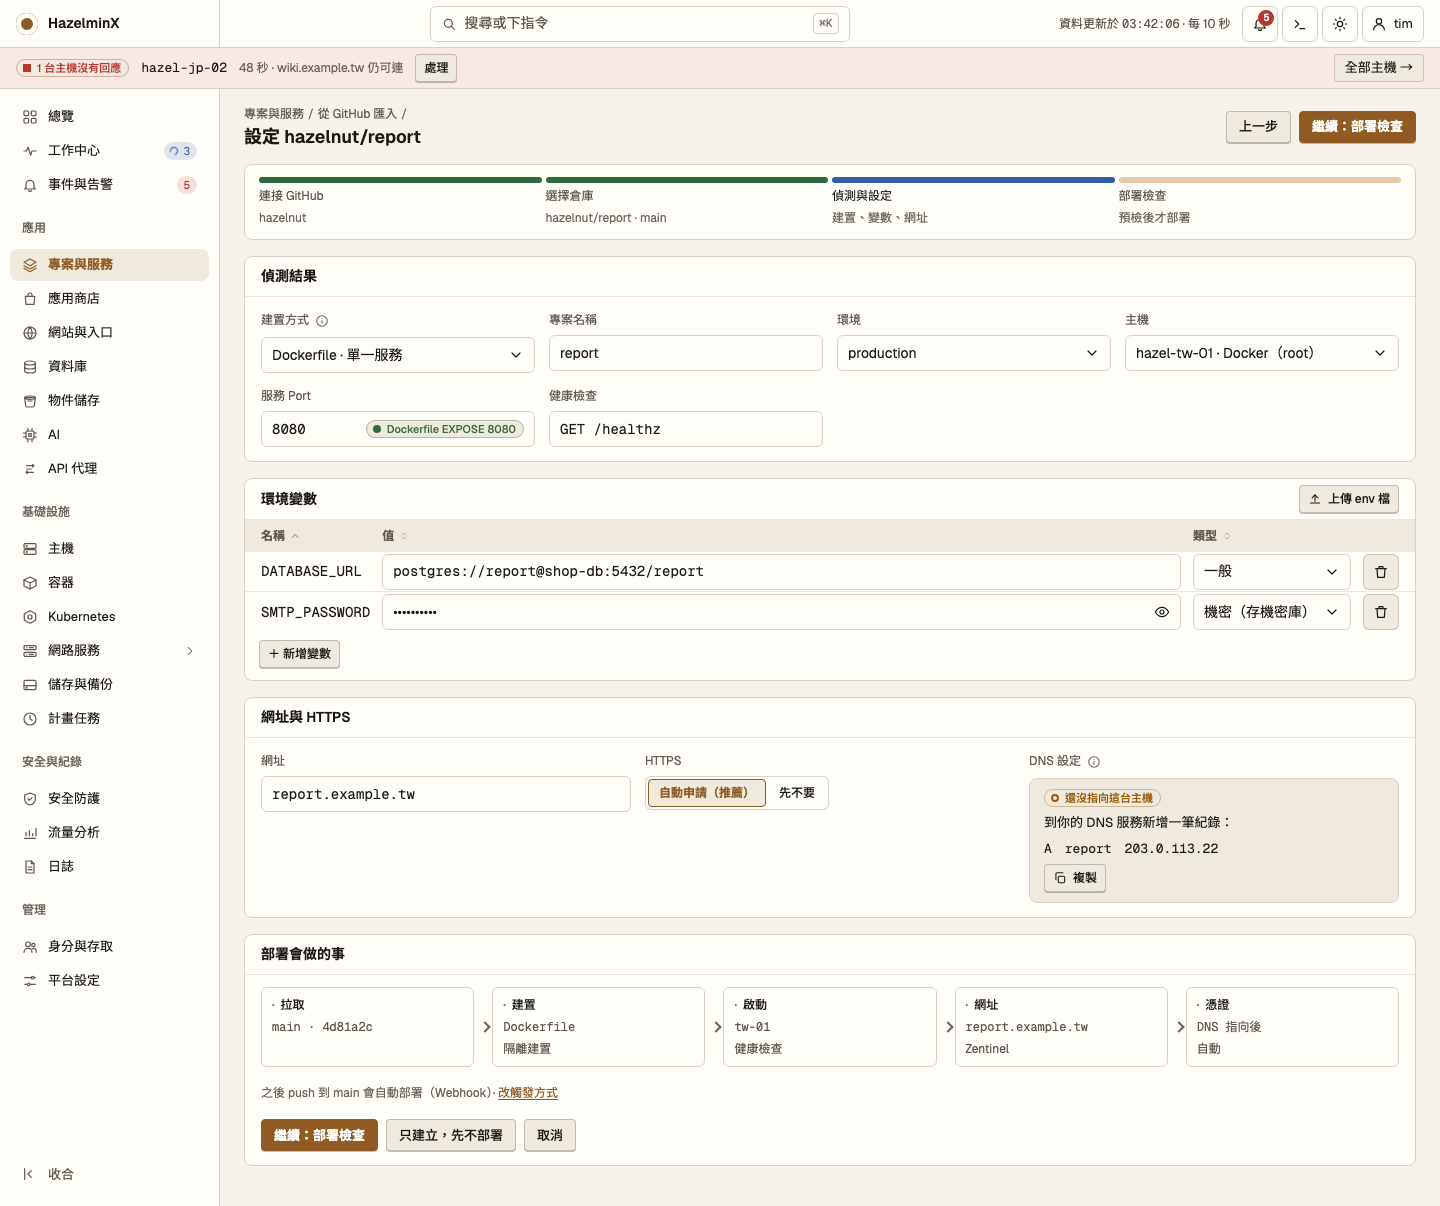
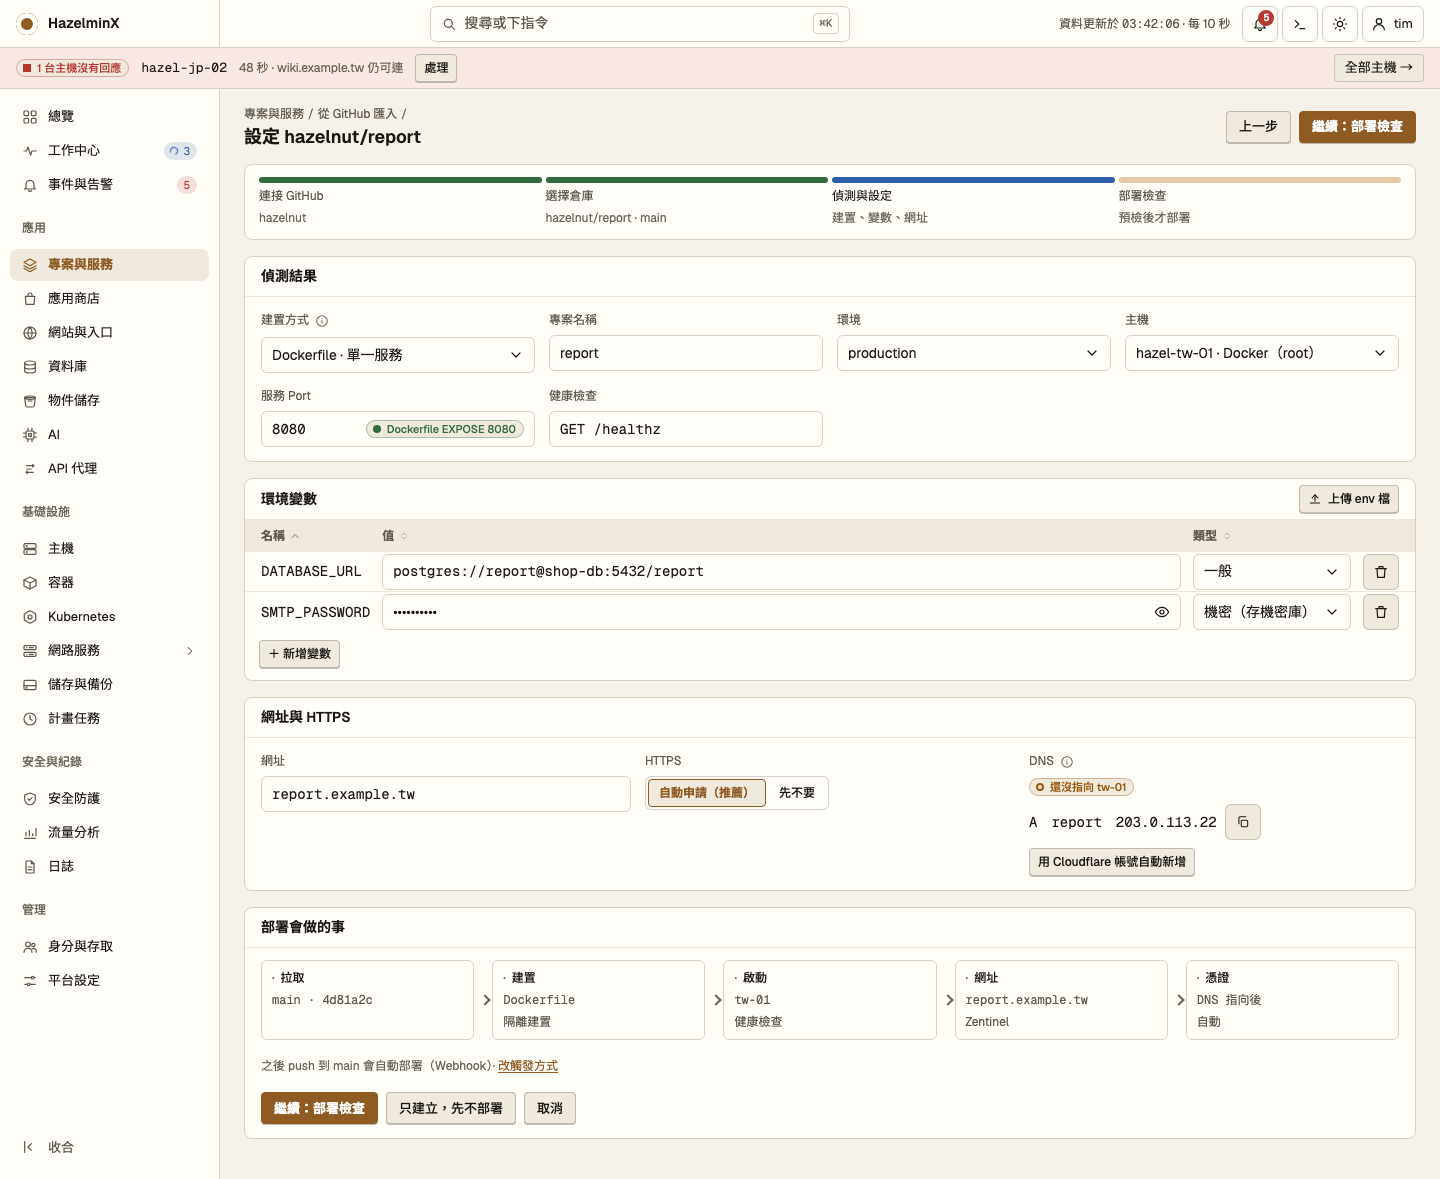
design: compact DNS field with automatic record creation on the import board

diff --git a/design/screens/ImportConfigure.dc.html b/design/screens/ImportConfigure.dc.html
@@ -496,7 +496,7 @@ body{margin:0}
     <button type="button" class="nv coll" aria-label="收合側欄"><svg viewBox="0 0 24 24" width="16" height="16" fill="none" stroke="currentColor" stroke-width="1.8" stroke-linecap="round" stroke-linejoin="round" aria-hidden="true"><path d="m14 7-5 5 5 5"/><path d="M4 4v16"/></svg><span>收合</span></button>
   </nav><main class="main">
     <div class="phead"><div class="name"><nav class="pcrumb" aria-label="位置"><a href="Projects.dc.html">專案與服務</a><span class="sep" aria-hidden="true">/</span><a href="GitHubSource.dc.html">從 GitHub 匯入</a><span class="sep" aria-hidden="true">/</span></nav><h1>設定 hazelnut/report</h1></div>
-      <div class="wrap" style="margin-left:auto"><a class="btn" href="GitHubSource.dc.html">上一步</a><a class="btn pri" href="ComposeCompat.dc.html">繼續：部署檢查</a></div></div><div class="panel" style="padding:12px 14px"><div class="steps"><div class="step done"><b aria-hidden="true"></b><span>連接 GitHub</span><span class="note">hazelnut</span></div><div class="step done"><b aria-hidden="true"></b><span>選擇倉庫</span><span class="note">hazelnut/report · main</span></div><div class="step cur"><b aria-hidden="true"></b><span>偵測與設定</span><span class="note">建置、變數、網址</span></div><div class="step todo"><b aria-hidden="true"></b><span>部署檢查</span><span class="note">預檢後才部署</span></div></div></div><div class="cg"><section class="panel"><div class="ph"><h2>偵測結果</h2></div><div style="padding:14px 16px;display:grid;grid-template-columns:repeat(auto-fit,minmax(min(240px,100%),1fr));gap:14px"><div class="field"><label>建置方式 <span class="hint" tabindex="0" role="img" aria-label="偵測到 Dockerfile，沒有 compose 檔" data-tip="偵測到 Dockerfile，沒有 compose 檔"><svg viewBox="0 0 24 24" width="14" height="14" fill="none" stroke="currentColor" stroke-width="1.8" stroke-linecap="round" stroke-linejoin="round" aria-hidden="true"><circle cx="12" cy="12" r="9"/><path d="M12 11v5M12 8h.01"/></svg></span></label><div class="inp"><span style="flex:1;min-width:0;overflow-wrap:anywhere">Dockerfile · 單一服務</span><svg viewBox="0 0 24 24" width="16" height="16" fill="none" stroke="currentColor" stroke-width="1.8" stroke-linecap="round" stroke-linejoin="round" aria-hidden="true"><path d="m6 9 6 6 6-6"/></svg></div></div><div class="field"><label>專案名稱</label><div class="inp"><span class="" style="flex:1;min-width:0;overflow-wrap:anywhere">report</span></div></div><div class="field"><label>環境</label><div class="inp"><span style="flex:1;min-width:0;overflow-wrap:anywhere">production</span><svg viewBox="0 0 24 24" width="16" height="16" fill="none" stroke="currentColor" stroke-width="1.8" stroke-linecap="round" stroke-linejoin="round" aria-hidden="true"><path d="m6 9 6 6 6-6"/></svg></div></div><div class="field"><label>主機</label><div class="inp"><span style="flex:1;min-width:0;overflow-wrap:anywhere">hazel-tw-01 · Docker（root）</span><svg viewBox="0 0 24 24" width="16" height="16" fill="none" stroke="currentColor" stroke-width="1.8" stroke-linecap="round" stroke-linejoin="round" aria-hidden="true"><path d="m6 9 6 6 6-6"/></svg></div></div><div class="field"><label>服務 Port</label><div class="inp"><span class="mono" style="flex:1;min-width:0;overflow-wrap:anywhere">8080</span><span class="st ok"><i aria-hidden="true"></i>Dockerfile EXPOSE 8080</span></div></div><div class="field"><label>健康檢查</label><div class="inp"><span class="mono" style="flex:1;min-width:0;overflow-wrap:anywhere">GET /healthz</span></div></div></div></section><section class="panel"><div class="ph"><h2>環境變數</h2><a class="btn sm" style="margin-left:auto" href="EnvUpload.dc.html"><svg viewBox="0 0 24 24" width="14" height="14" fill="none" stroke="currentColor" stroke-width="1.8" stroke-linecap="round" stroke-linejoin="round" aria-hidden="true"><path d="M12 16V5"/><path d="m7 10 5-5 5 5"/><path d="M4 19h16"/></svg>上傳 env 檔</a></div><div class="tw" style="--tc:auto minmax(min(160px,34%),1fr) auto auto"><div class="row hd r0"><span class=""><span class="sortable on">名稱 <svg viewBox="0 0 24 24" width="12" height="12" fill="none" stroke="currentColor" stroke-width="1.8" stroke-linecap="round" stroke-linejoin="round" aria-hidden="true"><path d="m6 15 6-6 6 6"/></svg></span></span><span class=""><span class="sortable">值 <svg viewBox="0 0 24 24" width="12" height="12" fill="none" stroke="currentColor" stroke-width="1.8" stroke-linecap="round" stroke-linejoin="round" aria-hidden="true"><path d="m8 10 4-4 4 4"/><path d="m8 14 4 4 4-4"/></svg></span></span><span class=""><span class="sortable">類型 <svg viewBox="0 0 24 24" width="12" height="12" fill="none" stroke="currentColor" stroke-width="1.8" stroke-linecap="round" stroke-linejoin="round" aria-hidden="true"><path d="m8 10 4-4 4 4"/><path d="m8 14 4 4 4-4"/></svg></span></span><span class=""></span></div><div class="row r0"><span><span class="mono">DATABASE_URL</span></span><span><div class="inp"><span class="mono" style="flex:1;min-width:0;overflow-wrap:anywhere">postgres://report@shop-db:5432/report</span></div></span><span><div class="inp"><span style="flex:1;min-width:0;overflow-wrap:anywhere">一般</span><svg viewBox="0 0 24 24" width="16" height="16" fill="none" stroke="currentColor" stroke-width="1.8" stroke-linecap="round" stroke-linejoin="round" aria-hidden="true"><path d="m6 9 6 6 6-6"/></svg></div></span><span><button type="button" class="ib" aria-label="移除這列"><svg viewBox="0 0 24 24" width="16" height="16" fill="none" stroke="currentColor" stroke-width="1.8" stroke-linecap="round" stroke-linejoin="round" aria-hidden="true"><path d="M4 7h16M9 7V4h6v3M6 7l1 13h10l1-13"/></svg></button></span></div><div class="row r0"><span><span class="mono">SMTP_PASSWORD</span></span><span><div class="inp"><span class="" style="flex:1;min-width:0;overflow-wrap:anywhere">••••••••••</span><svg viewBox="0 0 24 24" width="16" height="16" fill="none" stroke="currentColor" stroke-width="1.8" stroke-linecap="round" stroke-linejoin="round" aria-hidden="true"><path d="M2 12s4-7 10-7 10 7 10 7-4 7-10 7S2 12 2 12z"/><circle cx="12" cy="12" r="3"/></svg></div></span><span><div class="inp"><span style="flex:1;min-width:0;overflow-wrap:anywhere">機密（存機密庫）</span><svg viewBox="0 0 24 24" width="16" height="16" fill="none" stroke="currentColor" stroke-width="1.8" stroke-linecap="round" stroke-linejoin="round" aria-hidden="true"><path d="m6 9 6 6 6-6"/></svg></div></span><span><button type="button" class="ib" aria-label="移除這列"><svg viewBox="0 0 24 24" width="16" height="16" fill="none" stroke="currentColor" stroke-width="1.8" stroke-linecap="round" stroke-linejoin="round" aria-hidden="true"><path d="M4 7h16M9 7V4h6v3M6 7l1 13h10l1-13"/></svg></button></span></div></div><div style="padding:8px 14px 12px"><button type="button" class="btn sm">＋ 新增變數</button></div></section></div><section class="panel"><div class="ph"><h2>網址與 HTTPS</h2></div><div style="padding:14px 16px;display:grid;grid-template-columns:repeat(auto-fit,minmax(min(240px,100%),1fr));gap:14px"><div class="field"><label>網址</label><div class="inp"><span class="mono" style="flex:1;min-width:0;overflow-wrap:anywhere">report.example.tw</span></div></div><div class="field"><label>HTTPS</label><div class="range" role="group" aria-label="HTTPS" style="flex-wrap:wrap"><button type="button" class="btn on" aria-pressed="true">自動申請（推薦）</button><button type="button" class="btn" aria-pressed="false">先不要</button></div></div><div class="field"><label>DNS 設定 <span class="hint" tabindex="0" role="img" aria-label="設定好後這裡會自動變綠，再申請憑證" data-tip="設定好後這裡會自動變綠，再申請憑證"><svg viewBox="0 0 24 24" width="14" height="14" fill="none" stroke="currentColor" stroke-width="1.8" stroke-linecap="round" stroke-linejoin="round" aria-hidden="true"><circle cx="12" cy="12" r="9"/><path d="M12 11v5M12 8h.01"/></svg></span></label><div class="banner" style="display:flex;flex-direction:column;gap:6px;align-items:flex-start"><span class="st warn"><i aria-hidden="true"></i>還沒指向這台主機</span><span>到你的 DNS 服務新增一筆紀錄：</span><span class="mono">A　report　203.0.113.22</span><button type="button" class="btn sm"><svg viewBox="0 0 24 24" width="14" height="14" fill="none" stroke="currentColor" stroke-width="1.8" stroke-linecap="round" stroke-linejoin="round" aria-hidden="true"><rect x="9" y="9" width="11" height="11" rx="2"/><path d="M5 15V5a2 2 0 0 1 2-2h10"/></svg>複製</button></div></div></div></section><section class="panel"><div class="ph"><h2>部署會做的事</h2></div><div style="padding:12px 16px"><div class="pipe" style="--n:5"><div class="pstage todo"><span class="t"><span aria-hidden="true" style="color:var(--faint)">·</span>拉取</span><span class="mono">main · 4d81a2c</span><span></span></div><div class="pstage todo"><span class="t"><span aria-hidden="true" style="color:var(--faint)">·</span>建置</span><span class="mono">Dockerfile</span><span>隔離建置</span></div><div class="pstage todo"><span class="t"><span aria-hidden="true" style="color:var(--faint)">·</span>啟動</span><span class="mono">tw-01</span><span>健康檢查</span></div><div class="pstage todo"><span class="t"><span aria-hidden="true" style="color:var(--faint)">·</span>網址</span><span class="mono">report.example.tw</span><span>Zentinel</span></div><div class="pstage todo"><span class="t"><span aria-hidden="true" style="color:var(--faint)">·</span>憑證</span><span class="mono">DNS 指向後</span><span>自動</span></div></div><div class="note" style="margin-top:8px">之後 push 到 main 會自動部署（Webhook）· <a href="ProjectTriggers.dc.html">改觸發方式</a></div></div><div class="wrap" style="padding:0 16px 14px"><button type="button" class="btn pri">繼續：部署檢查</button><button type="button" class="btn">只建立，先不部署</button><button type="button" class="btn">取消</button></div></section></main></div></div>
+      <div class="wrap" style="margin-left:auto"><a class="btn" href="GitHubSource.dc.html">上一步</a><a class="btn pri" href="ComposeCompat.dc.html">繼續：部署檢查</a></div></div><div class="panel" style="padding:12px 14px"><div class="steps"><div class="step done"><b aria-hidden="true"></b><span>連接 GitHub</span><span class="note">hazelnut</span></div><div class="step done"><b aria-hidden="true"></b><span>選擇倉庫</span><span class="note">hazelnut/report · main</span></div><div class="step cur"><b aria-hidden="true"></b><span>偵測與設定</span><span class="note">建置、變數、網址</span></div><div class="step todo"><b aria-hidden="true"></b><span>部署檢查</span><span class="note">預檢後才部署</span></div></div></div><div class="cg"><section class="panel"><div class="ph"><h2>偵測結果</h2></div><div style="padding:14px 16px;display:grid;grid-template-columns:repeat(auto-fit,minmax(min(240px,100%),1fr));gap:14px"><div class="field"><label>建置方式 <span class="hint" tabindex="0" role="img" aria-label="偵測到 Dockerfile，沒有 compose 檔" data-tip="偵測到 Dockerfile，沒有 compose 檔"><svg viewBox="0 0 24 24" width="14" height="14" fill="none" stroke="currentColor" stroke-width="1.8" stroke-linecap="round" stroke-linejoin="round" aria-hidden="true"><circle cx="12" cy="12" r="9"/><path d="M12 11v5M12 8h.01"/></svg></span></label><div class="inp"><span style="flex:1;min-width:0;overflow-wrap:anywhere">Dockerfile · 單一服務</span><svg viewBox="0 0 24 24" width="16" height="16" fill="none" stroke="currentColor" stroke-width="1.8" stroke-linecap="round" stroke-linejoin="round" aria-hidden="true"><path d="m6 9 6 6 6-6"/></svg></div></div><div class="field"><label>專案名稱</label><div class="inp"><span class="" style="flex:1;min-width:0;overflow-wrap:anywhere">report</span></div></div><div class="field"><label>環境</label><div class="inp"><span style="flex:1;min-width:0;overflow-wrap:anywhere">production</span><svg viewBox="0 0 24 24" width="16" height="16" fill="none" stroke="currentColor" stroke-width="1.8" stroke-linecap="round" stroke-linejoin="round" aria-hidden="true"><path d="m6 9 6 6 6-6"/></svg></div></div><div class="field"><label>主機</label><div class="inp"><span style="flex:1;min-width:0;overflow-wrap:anywhere">hazel-tw-01 · Docker（root）</span><svg viewBox="0 0 24 24" width="16" height="16" fill="none" stroke="currentColor" stroke-width="1.8" stroke-linecap="round" stroke-linejoin="round" aria-hidden="true"><path d="m6 9 6 6 6-6"/></svg></div></div><div class="field"><label>服務 Port</label><div class="inp"><span class="mono" style="flex:1;min-width:0;overflow-wrap:anywhere">8080</span><span class="st ok"><i aria-hidden="true"></i>Dockerfile EXPOSE 8080</span></div></div><div class="field"><label>健康檢查</label><div class="inp"><span class="mono" style="flex:1;min-width:0;overflow-wrap:anywhere">GET /healthz</span></div></div></div></section><section class="panel"><div class="ph"><h2>環境變數</h2><a class="btn sm" style="margin-left:auto" href="EnvUpload.dc.html"><svg viewBox="0 0 24 24" width="14" height="14" fill="none" stroke="currentColor" stroke-width="1.8" stroke-linecap="round" stroke-linejoin="round" aria-hidden="true"><path d="M12 16V5"/><path d="m7 10 5-5 5 5"/><path d="M4 19h16"/></svg>上傳 env 檔</a></div><div class="tw" style="--tc:auto minmax(min(160px,34%),1fr) auto auto"><div class="row hd r0"><span class=""><span class="sortable on">名稱 <svg viewBox="0 0 24 24" width="12" height="12" fill="none" stroke="currentColor" stroke-width="1.8" stroke-linecap="round" stroke-linejoin="round" aria-hidden="true"><path d="m6 15 6-6 6 6"/></svg></span></span><span class=""><span class="sortable">值 <svg viewBox="0 0 24 24" width="12" height="12" fill="none" stroke="currentColor" stroke-width="1.8" stroke-linecap="round" stroke-linejoin="round" aria-hidden="true"><path d="m8 10 4-4 4 4"/><path d="m8 14 4 4 4-4"/></svg></span></span><span class=""><span class="sortable">類型 <svg viewBox="0 0 24 24" width="12" height="12" fill="none" stroke="currentColor" stroke-width="1.8" stroke-linecap="round" stroke-linejoin="round" aria-hidden="true"><path d="m8 10 4-4 4 4"/><path d="m8 14 4 4 4-4"/></svg></span></span><span class=""></span></div><div class="row r0"><span><span class="mono">DATABASE_URL</span></span><span><div class="inp"><span class="mono" style="flex:1;min-width:0;overflow-wrap:anywhere">postgres://report@shop-db:5432/report</span></div></span><span><div class="inp"><span style="flex:1;min-width:0;overflow-wrap:anywhere">一般</span><svg viewBox="0 0 24 24" width="16" height="16" fill="none" stroke="currentColor" stroke-width="1.8" stroke-linecap="round" stroke-linejoin="round" aria-hidden="true"><path d="m6 9 6 6 6-6"/></svg></div></span><span><button type="button" class="ib" aria-label="移除這列"><svg viewBox="0 0 24 24" width="16" height="16" fill="none" stroke="currentColor" stroke-width="1.8" stroke-linecap="round" stroke-linejoin="round" aria-hidden="true"><path d="M4 7h16M9 7V4h6v3M6 7l1 13h10l1-13"/></svg></button></span></div><div class="row r0"><span><span class="mono">SMTP_PASSWORD</span></span><span><div class="inp"><span class="" style="flex:1;min-width:0;overflow-wrap:anywhere">••••••••••</span><svg viewBox="0 0 24 24" width="16" height="16" fill="none" stroke="currentColor" stroke-width="1.8" stroke-linecap="round" stroke-linejoin="round" aria-hidden="true"><path d="M2 12s4-7 10-7 10 7 10 7-4 7-10 7S2 12 2 12z"/><circle cx="12" cy="12" r="3"/></svg></div></span><span><div class="inp"><span style="flex:1;min-width:0;overflow-wrap:anywhere">機密（存機密庫）</span><svg viewBox="0 0 24 24" width="16" height="16" fill="none" stroke="currentColor" stroke-width="1.8" stroke-linecap="round" stroke-linejoin="round" aria-hidden="true"><path d="m6 9 6 6 6-6"/></svg></div></span><span><button type="button" class="ib" aria-label="移除這列"><svg viewBox="0 0 24 24" width="16" height="16" fill="none" stroke="currentColor" stroke-width="1.8" stroke-linecap="round" stroke-linejoin="round" aria-hidden="true"><path d="M4 7h16M9 7V4h6v3M6 7l1 13h10l1-13"/></svg></button></span></div></div><div style="padding:8px 14px 12px"><button type="button" class="btn sm">＋ 新增變數</button></div></section></div><section class="panel"><div class="ph"><h2>網址與 HTTPS</h2></div><div style="padding:14px 16px;display:grid;grid-template-columns:repeat(auto-fit,minmax(min(240px,100%),1fr));gap:14px"><div class="field"><label>網址</label><div class="inp"><span class="mono" style="flex:1;min-width:0;overflow-wrap:anywhere">report.example.tw</span></div></div><div class="field"><label>HTTPS</label><div class="range" role="group" aria-label="HTTPS" style="flex-wrap:wrap"><button type="button" class="btn on" aria-pressed="true">自動申請（推薦）</button><button type="button" class="btn" aria-pressed="false">先不要</button></div></div><div class="field"><label>DNS <span class="hint" tabindex="0" role="img" aria-label="example.tw 由已連接的 Cloudflare 帳號管理" data-tip="example.tw 由已連接的 Cloudflare 帳號管理"><svg viewBox="0 0 24 24" width="14" height="14" fill="none" stroke="currentColor" stroke-width="1.8" stroke-linecap="round" stroke-linejoin="round" aria-hidden="true"><circle cx="12" cy="12" r="9"/><path d="M12 11v5M12 8h.01"/></svg></span></label><div style="display:flex;flex-direction:column;gap:8px;align-items:flex-start"><span class="st warn"><i aria-hidden="true"></i>還沒指向 tw-01</span><span class="wrap" style="flex-wrap:nowrap"><span class="mono">A　report　203.0.113.22</span><button type="button" class="ib" aria-label="複製紀錄"><svg viewBox="0 0 24 24" width="14" height="14" fill="none" stroke="currentColor" stroke-width="1.8" stroke-linecap="round" stroke-linejoin="round" aria-hidden="true"><rect x="9" y="9" width="11" height="11" rx="2"/><path d="M5 15V5a2 2 0 0 1 2-2h10"/></svg></button></span><button type="button" class="btn sm">用 Cloudflare 帳號自動新增</button></div></div></div></section><section class="panel"><div class="ph"><h2>部署會做的事</h2></div><div style="padding:12px 16px"><div class="pipe" style="--n:5"><div class="pstage todo"><span class="t"><span aria-hidden="true" style="color:var(--faint)">·</span>拉取</span><span class="mono">main · 4d81a2c</span><span></span></div><div class="pstage todo"><span class="t"><span aria-hidden="true" style="color:var(--faint)">·</span>建置</span><span class="mono">Dockerfile</span><span>隔離建置</span></div><div class="pstage todo"><span class="t"><span aria-hidden="true" style="color:var(--faint)">·</span>啟動</span><span class="mono">tw-01</span><span>健康檢查</span></div><div class="pstage todo"><span class="t"><span aria-hidden="true" style="color:var(--faint)">·</span>網址</span><span class="mono">report.example.tw</span><span>Zentinel</span></div><div class="pstage todo"><span class="t"><span aria-hidden="true" style="color:var(--faint)">·</span>憑證</span><span class="mono">DNS 指向後</span><span>自動</span></div></div><div class="note" style="margin-top:8px">之後 push 到 main 會自動部署（Webhook）· <a href="ProjectTriggers.dc.html">改觸發方式</a></div></div><div class="wrap" style="padding:0 16px 14px"><button type="button" class="btn pri">繼續：部署檢查</button><button type="button" class="btn">只建立，先不部署</button><button type="button" class="btn">取消</button></div></section></main></div></div>
 </x-dc>
 <script type="text/x-dc" data-dc-script data-props='{"light":{"editor":"boolean","default":false,"section":"主題"},"$preview":{"width":1440,"height":1300}}'>
 class Component extends DCLogic {

diff --git a/design/tools/build_screens.py b/design/tools/build_screens.py
@@ -4201,7 +4201,7 @@ def import_configure() -> str:
         extra=f'<a class="btn sm" style="margin-left:auto" href="EnvUpload.dc.html">{U.icon("upload", 14)}上傳 env 檔</a>')
     domain = _fp("網址與 HTTPS", _grid(
         _fld("網址", _in("report.example.tw", mono=True)), _fld("HTTPS", _seg(["自動申請（推薦）", "先不要"], 0, "HTTPS")),
-        _fld("DNS 設定", f'<div class="banner" style="display:flex;flex-direction:column;gap:6px;align-items:flex-start">{U.status("warn", "還沒指向這台主機")}<span>到你的 DNS 服務新增一筆紀錄：</span><span class="mono">A　report　203.0.113.22</span><button type="button" class="btn sm">{U.icon("copy", 14)}複製</button></div>', "設定好後這裡會自動變綠，再申請憑證")))
+        _fld("DNS", f'<div style="display:flex;flex-direction:column;gap:8px;align-items:flex-start">{U.status("warn", "還沒指向 tw-01")}<span class="wrap" style="flex-wrap:nowrap"><span class="mono">A　report　203.0.113.22</span><button type="button" class="ib" aria-label="複製紀錄">{U.icon("copy", 14)}</button></span><button type="button" class="btn sm">用 Cloudflare 帳號自動新增</button></div>', "example.tw 由已連接的 Cloudflare 帳號管理")))
     summary = _fp("部署會做的事", f'<div style="padding:12px 16px">{U.pipeline([("拉取", "todo", "main · 4d81a2c", ""), ("建置", "todo", "Dockerfile", "隔離建置"), ("啟動", "todo", "tw-01", "健康檢查"), ("網址", "todo", "report.example.tw", "Zentinel"), ("憑證", "todo", "DNS 指向後", "自動")])}<div class="note" style="margin-top:8px">之後 push 到 main 會自動部署（Webhook）· <a href="ProjectTriggers.dc.html">改觸發方式</a></div></div>' + _submit("繼續：部署檢查", "只建立，先不部署"))
     main = head + stepper + f'<div class="cg">{detect}{envs}</div>' + domain + summary
     return U.shell("projects", main)
